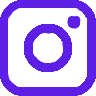
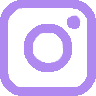
(style #001):textos e fonte

diff --git a/src/output.css b/src/output.css
@@ -24,7 +24,10 @@
     --text-4xl--line-height: calc(2.5 / 2.25);
     --text-5xl: 3rem;
     --text-5xl--line-height: 1;
+    --font-weight-extralight: 200;
+    --font-weight-light: 300;
     --font-weight-semibold: 600;
+    --font-weight-bold: 700;
     --font-weight-extrabold: 800;
     --radius-lg: 0.5rem;
     --radius-2xl: 1rem;
@@ -33,8 +36,8 @@
     --default-transition-timing-function: cubic-bezier(0.4, 0, 0.2, 1);
     --default-font-family: var(--font-sans);
     --default-mono-font-family: var(--font-mono);
-    --color-main: #5d1ee6;
-    --color-secondary: #2c94f5;
+    --color-main: #b089f0;
+    --color-secondary: #7247ff;
     --color-gray: #546066;
     --font-main: "Poppins", sans-serif;
   }
@@ -194,6 +197,9 @@
   .hidden {
     display: none;
   }
+  .table {
+    display: table;
+  }
   .size-8 {
     width: calc(var(--spacing) * 8);
     height: calc(var(--spacing) * 8);
@@ -206,8 +212,14 @@
     width: calc(var(--spacing) * 16);
     height: calc(var(--spacing) * 16);
   }
+  .h-1 {
+    height: calc(var(--spacing) * 1);
+  }
   .h-1\/4 {
     height: calc(1/4 * 100%);
+  }
+  .h-3 {
+    height: calc(var(--spacing) * 3);
   }
   .h-3\/4 {
     height: calc(3/4 * 100%);
@@ -217,6 +229,9 @@
   }
   .min-h-screen {
     min-height: 100vh;
+  }
+  .max-w-3 {
+    max-width: calc(var(--spacing) * 3);
   }
   .max-w-3\/4 {
     max-width: calc(3/4 * 100%);
@@ -229,6 +244,12 @@
   }
   .max-w-\[400px\] {
     max-width: 400px;
+  }
+  .border-collapse {
+    border-collapse: collapse;
+  }
+  .resize {
+    resize: both;
   }
   .grid-flow-row {
     grid-auto-flow: row;
@@ -277,6 +298,10 @@
   }
   .rounded-lg {
     border-radius: var(--radius-lg);
+  }
+  .border {
+    border-style: var(--tw-border-style);
+    border-width: 1px;
   }
   .bg-black {
     background-color: var(--color-black);
@@ -347,9 +372,21 @@
     font-size: var(--text-xl);
     line-height: var(--tw-leading, var(--text-xl--line-height));
   }
+  .font-bold {
+    --tw-font-weight: var(--font-weight-bold);
+    font-weight: var(--font-weight-bold);
+  }
   .font-extrabold {
     --tw-font-weight: var(--font-weight-extrabold);
     font-weight: var(--font-weight-extrabold);
+  }
+  .font-extralight {
+    --tw-font-weight: var(--font-weight-extralight);
+    font-weight: var(--font-weight-extralight);
+  }
+  .font-light {
+    --tw-font-weight: var(--font-weight-light);
+    font-weight: var(--font-weight-light);
   }
   .font-semibold {
     --tw-font-weight: var(--font-weight-semibold);
@@ -367,9 +404,22 @@
   .text-white {
     color: var(--color-white);
   }
+  .font-stretch-semi-condensed {
+    font-stretch: semi-condensed;
+  }
+  .underline {
+    text-decoration-line: underline;
+  }
+  .outline {
+    outline-style: var(--tw-outline-style);
+    outline-width: 1px;
+  }
   .drop-shadow-lg {
     --tw-drop-shadow-size: drop-shadow(0 4px 4px var(--tw-drop-shadow-color, rgb(0 0 0 / 0.15)));
     --tw-drop-shadow: drop-shadow(var(--drop-shadow-lg));
+    filter: var(--tw-blur,) var(--tw-brightness,) var(--tw-contrast,) var(--tw-grayscale,) var(--tw-hue-rotate,) var(--tw-invert,) var(--tw-saturate,) var(--tw-sepia,) var(--tw-drop-shadow,);
+  }
+  .filter {
     filter: var(--tw-blur,) var(--tw-brightness,) var(--tw-contrast,) var(--tw-grayscale,) var(--tw-hue-rotate,) var(--tw-invert,) var(--tw-saturate,) var(--tw-sepia,) var(--tw-drop-shadow,);
   }
   .transition {
@@ -496,9 +546,19 @@
     }
   }
 }
+@property --tw-border-style {
+  syntax: "*";
+  inherits: false;
+  initial-value: solid;
+}
 @property --tw-font-weight {
   syntax: "*";
   inherits: false;
+}
+@property --tw-outline-style {
+  syntax: "*";
+  inherits: false;
+  initial-value: solid;
 }
 @property --tw-blur {
   syntax: "*";
@@ -560,7 +620,9 @@
 @layer properties {
   @supports ((-webkit-hyphens: none) and (not (margin-trim: inline))) or ((-moz-orient: inline) and (not (color:rgb(from red r g b)))) {
     *, ::before, ::after, ::backdrop {
+      --tw-border-style: solid;
       --tw-font-weight: initial;
+      --tw-outline-style: solid;
       --tw-blur: initial;
       --tw-brightness: initial;
       --tw-contrast: initial;

diff --git a/src/index.html b/src/index.html
@@ -53,7 +53,7 @@
           class="text-center lg:text-start flex flex-col items-center lg:items-start gap-8"
         >
           <div class="flex flex-col gap-8 max-w-3/4">
-            <h2 class="text-5xl">Rafael Scarpel</h2>
+            <h2 class="text-5xl font-semibold">Rafael Scarpel</h2>
             <div class="flex flex-col gap-4">
               <h3 class="text-2xl">
                 Trainee da <span class="text-secondary">byron.solutions</span>
@@ -73,7 +73,7 @@
         <div
           class="flex flex-row justify-between items-center lg:justify-start gap-8"
         >
-          <p class="text-2xl">Contato</p>
+          <p class="text-2xl font-semibold">Contato</p>
           <div class="flex flex-row gap-6">
             <div class="size-12">
               <a href="https://instagram.com/rafa.ls_"
@@ -108,8 +108,8 @@
             <img src="./img/card3v3.jpg" alt="" />
           </div>
           <div class="h-1/4">
-            <h3 class="text-lg">DCOVA</h3>
-            <p class="text-base text-gray">Análise de dados em python</p>
+            <h3 class="text-lg">Análise de dados</h3>
+            <p class="text-base text-gray">Métodos matemáticos para análise de dados em python</p>
           </div>
         </div>
         <div
@@ -119,8 +119,8 @@
             <img src="./img/card3v3.jpg" alt="" />
           </div>
           <div class="h-1/4">
-            <h3 class="text-lg">DCOVA</h3>
-            <p class="text-base text-gray">Análise de dados em python</p>
+            <h3 class="text-lg">SARIMAX</h3>
+            <p class="text-base text-gray">Aplicação de um modelo para análise de séries temporais</p>
           </div>
         </div>
         <div
@@ -130,8 +130,8 @@
             <img src="./img/card3v3.jpg" alt="" />
           </div>
           <div class="h-1/4">
-            <h3 class="text-lg">DCOVA</h3>
-            <p class="text-base text-gray">Análise de dados em python</p>
+            <h3 class="text-lg">Gitflow</h3>
+            <p class="text-base text-gray">Capacitação de Git & GitHub</p>
           </div>
         </div>
         <div
@@ -141,8 +141,8 @@
             <img src="./img/card3v3.jpg" alt="" />
           </div>
           <div class="h-1/4">
-            <h3 class="text-lg">DCOVA</h3>
-            <p class="text-base text-gray">Análise de dados em python</p>
+            <h3 class="text-lg">Estrutura de dados</h3>
+            <p class="text-base text-gray">Algoritmos e estruturas de dados em C</p>
           </div>
         </div>
         <div
@@ -152,8 +152,8 @@
             <img src="./img/card3v3.jpg" alt="" />
           </div>
           <div class="h-1/4">
-            <h3 class="text-lg">DCOVA</h3>
-            <p class="text-base text-gray">Análise de dados em python</p>
+            <h3 class="text-lg">POO</h3>
+            <p class="text-base text-gray">Programação orientada a objetos em python com interface tkinter</p>
           </div>
         </div>
         <div
@@ -163,8 +163,8 @@
             <img src="./img/card3v3.jpg" alt="" />
           </div>
           <div class="h-1/4">
-            <h3 class="text-lg">DCOVA</h3>
-            <p class="text-base text-gray">Análise de dados em python</p>
+            <h3 class="text-lg">Portfólio</h3>
+            <p class="text-base text-gray">Página desenvolvida com HTML e CSS</p>
           </div>
         </div>
       </div>
@@ -187,8 +187,7 @@
         <div class="text-center gap-2 lg:w-1/3">
           <h3 class="text-2xl">SOBRE MIM</h3>
           <p class="text-base">
-            Lorem ipsum dolor sit amet consectetur adipisicing elit. Modi vitae
-            ex tempora amet.
+            Aluno de CCO, Trainee da diretoria de projetos no semestre 2025.1
           </p>
         </div>
       </div>

diff --git a/src/input.css b/src/input.css
@@ -3,8 +3,8 @@
 @import "tailwindcss";
 
 @theme {
-    --color-main: #5d1ee6;
-    --color-secondary: #2c94f5;
+    --color-main: #b089f0;
+    --color-secondary: #7247ff;
     --color-black: #13181A;
     --color-white: #F8F8F8;
     --color-gray: #546066;
